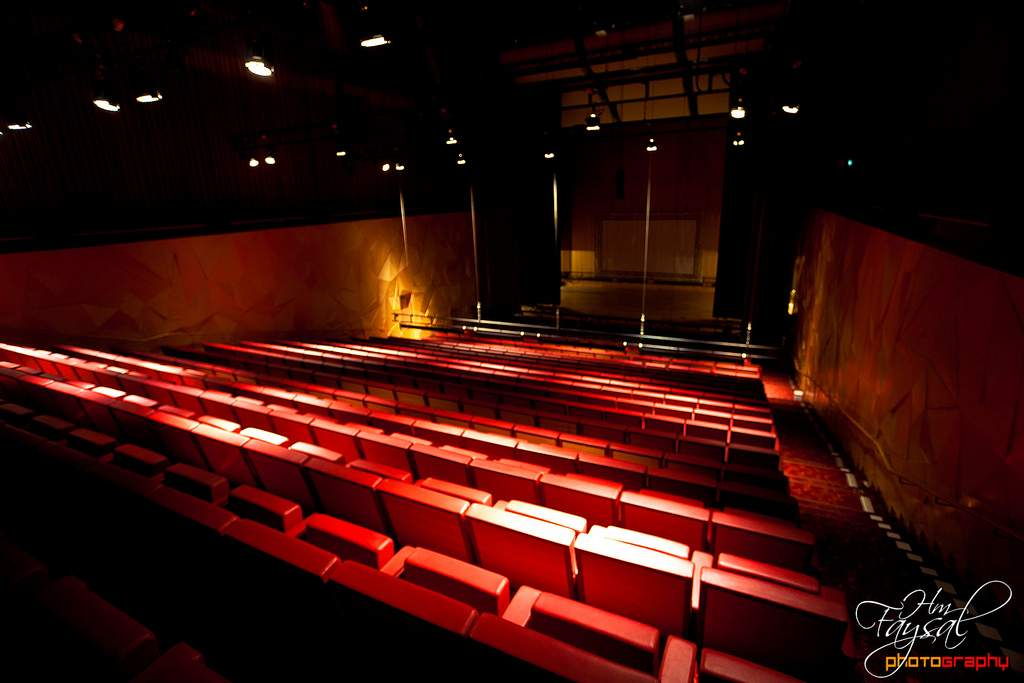
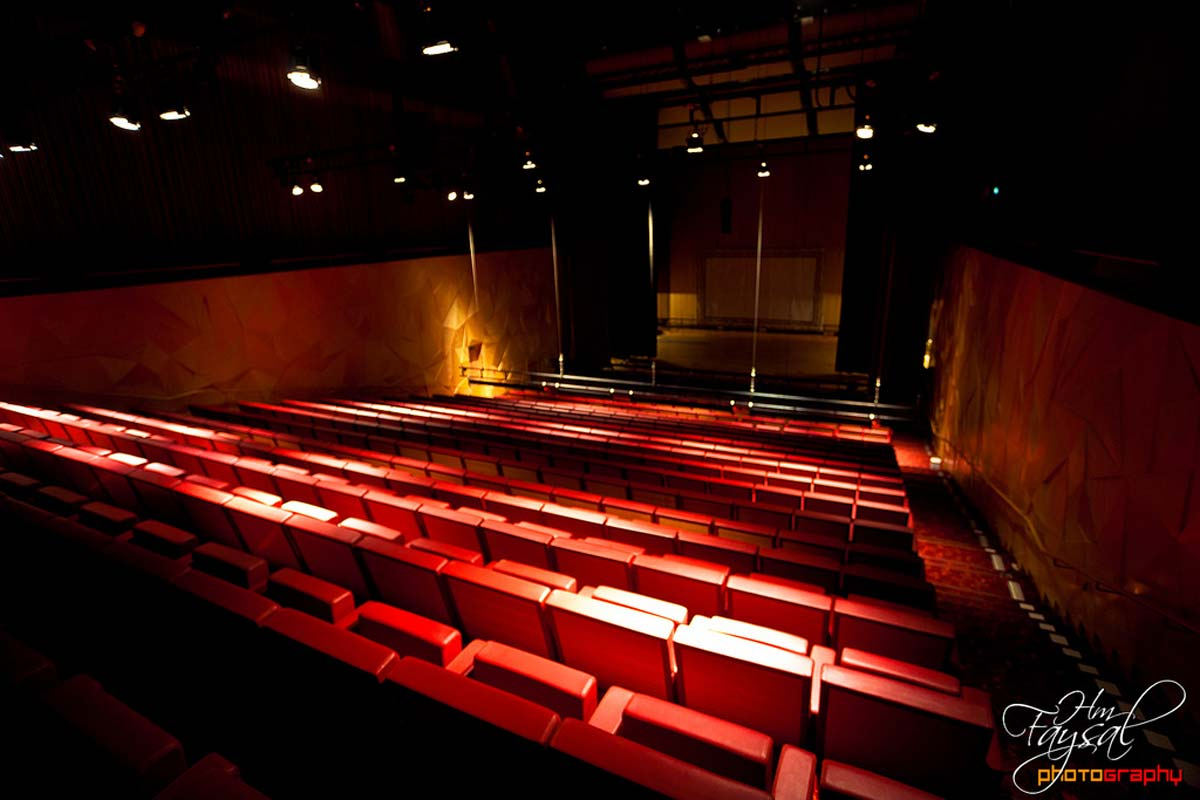
Photoset Update

diff --git a/_posts/2014-09-09-photoset-qatar-national-convention-center.md b/_posts/2014-09-09-photoset-qatar-national-convention-center.md
@@ -45,7 +45,7 @@ Officially opened on 4 December 2011, QNCC was the first of its kind being built
 One of the features is the 3,500sq m of solar panels providing 12.5 percent of the Center's energy needs. The exhibition halls are equipped with energy-efficient LED lighting. Many other integrative design elements were included in the building to achieve the highest level of environmental and sustainable standards. QNCC features a conference hall of 4,000 seats theater style, a 2,300-seat theater, three auditoriums and a total of 52 flexible meetings rooms to accommodate a wide range of events. It also houses 40,000 square meters of exhibition space over nine halls, and is adaptable to seat 10,000 for a conference or banquet.
 
 <figure>
-	<a href="{{ site.url }}/images/post/photoset-qncc/12.jpg"><img src="{{ site.url }}/images/post/photoset-qncc/thumb/12.jpg"></a>
+	<a href="{{ site.url }}/images/post/photoset-qncc/12.jpg"><img src="{{ site.url }}/images/post/photoset-qncc/12.jpg"></a>
 </figure>
 <figure class="half">
 	<a href="{{ site.url }}/images/post/photoset-qncc/13.jpg"><img src="{{ site.url }}/images/post/photoset-qncc/thumb/13.jpg"></a>
